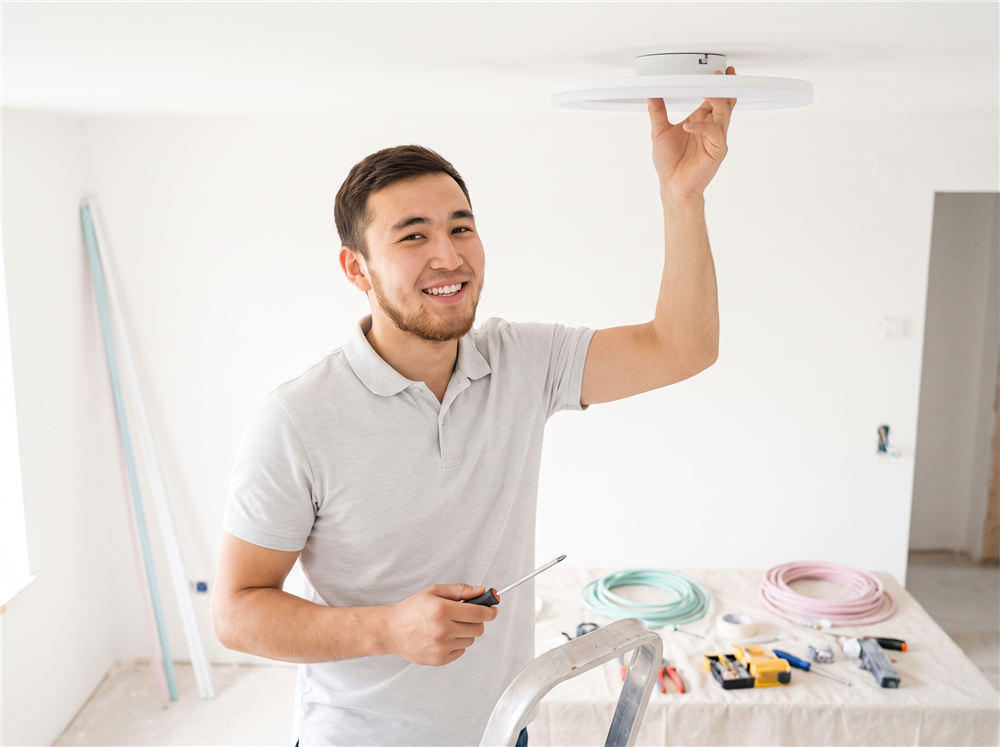
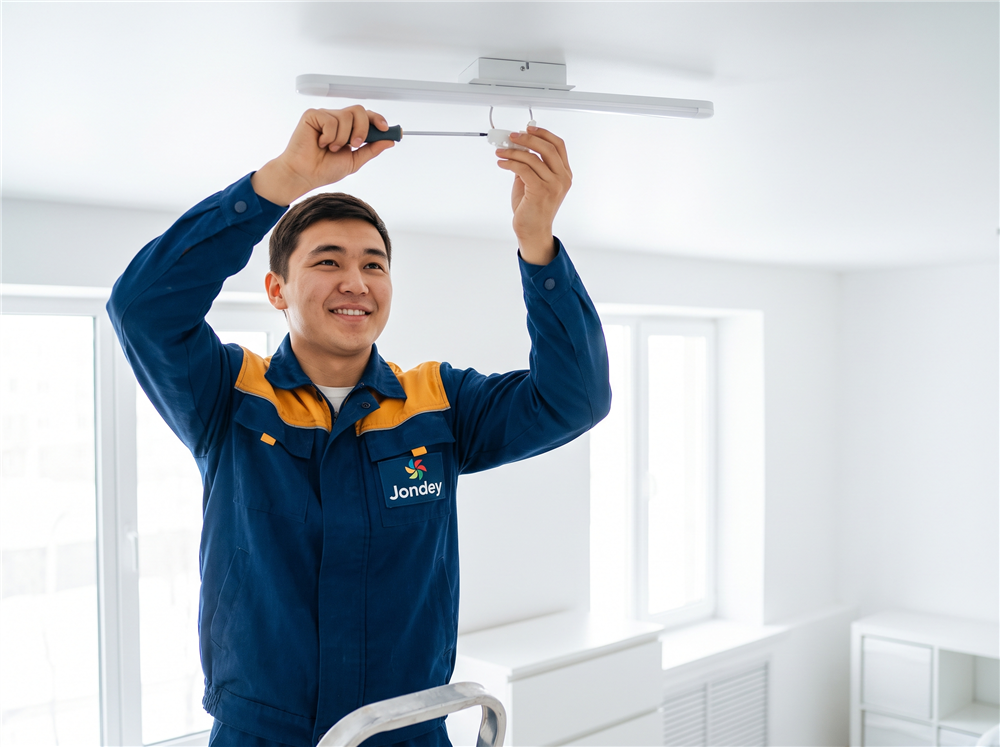
Образцы единой формы (электрика, бытовая техника) + города по населению
- Мастера в фирменной синей спецовке с янтарной вставкой и логотипом
  «Jondey» на груди (вместо поло) — образцы для оценки перед всеми 16.
- Блок городов: крупные первыми (Алматы, Шымкент, Астана, Караганда,
  Актобе, Тараз, Павлодар, Усть-Каменогорск, Семей…).

diff --git a/app/page.tsx b/app/page.tsx
@@ -31,6 +31,20 @@ const FAQ: [string, string][] = [
   ],
 ];
 
+// Крупные города Казахстана по населению — показываем их первыми в блоке
+// «Найдите специалистов в вашем районе».
+const MAJOR_CITIES = [
+  'Алматы', 'Шымкент', 'Астана', 'Нур-Султан', 'Караганда', 'Актобе',
+  'Тараз', 'Павлодар', 'Усть-Каменогорск', 'Семей', 'Атырау', 'Костанай',
+  'Кызылорда', 'Уральск', 'Петропавловск', 'Актау', 'Темиртау', 'Туркестан',
+  'Кокшетау', 'Талдыкорган', 'Экибастуз', 'Рудный', 'Жезказган',
+];
+function cityRank(name: string): number {
+  const n = name.toLowerCase();
+  const i = MAJOR_CITIES.findIndex((m) => n.includes(m.toLowerCase()));
+  return i === -1 ? 999 : i;
+}
+
 export const revalidate = 120; // обновлять витрину раз в 2 минуты
 
 export default async function HomePage() {
@@ -311,7 +325,10 @@ export default async function HomePage() {
               Мастера по всему Казахстану — выберите свой город.
             </p>
             <div className="grid grid-cols-2 sm:grid-cols-3 lg:grid-cols-6 gap-x-4 gap-y-3">
-              {cities.slice(0, 23).map((c) => (
+              {[...cities]
+                .sort((a, b) => cityRank(cityName(a)) - cityRank(cityName(b)))
+                .slice(0, 23)
+                .map((c) => (
                 <Link
                   key={c.id}
                   href={`/mastera?city=${c.id}`}